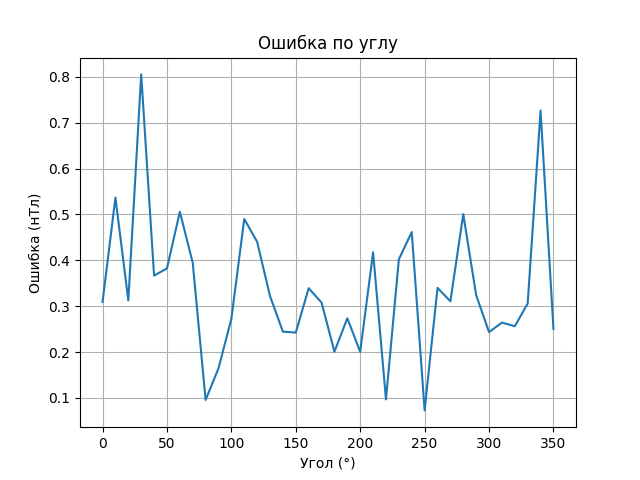
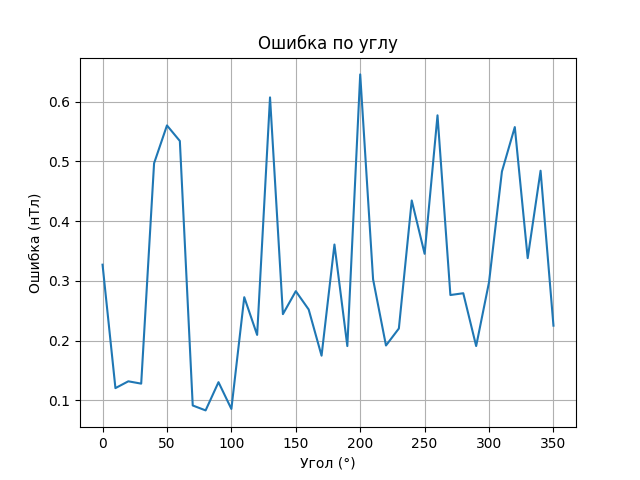
Добавил температуру

diff --git a/generate_data.py b/generate_data.py
@@ -1,30 +1,26 @@
 import numpy as np
 import pandas as pd
 from scipy.spatial.transform import Rotation as R
-# Ввод параметров с клавиатуры
 
-print("Введите bias (через пробел, 3 значения):")
-bias = np.array(list(map(float, input().split())))
+# Константные параметры
 
-print("Введите матрицу искажений A (в строках, 9 значений через пробел):")
-A = np.array(list(map(float, input().split()))).reshape((3, 3))
+bias = np.array([2.0, -1.5, 0.8])  # Смещение (bias)
 
-print("Введите чувствительность по каждой оси (3 значения):")
-sensitivity = np.array(list(map(float, input().split())))
+A = np.array([                   # Матрица искажений (soft-iron)
+    [1.05, 0.02, 0.01],
+    [0.01, 0.98, -0.03],
+    [-0.01, 0.02, 1.02]
+])
 
-print("Введите шум по каждой оси (σx σy σz):")
-noise_std = np.array(list(map(float, input().split())))
+sensitivity = np.array([0.95, 1.03, 1.00])  # Чувствительность по осям
 
-print("Введите уровень шума эталонного магнитометра:")
-ref_noise_std = float(input())
+noise_std = np.array([0.3, 0.3, 0.3])       # Шум по каждой оси
 
-print("Введите порог чувствительности эталонного магнитометра:")
-detection_threshold = float(input())
+ref_noise_std = 0.1                         # Шум эталонного магнитометра
 
-print("Нужно ли применять поворот осей? (yes/no):")
-rotate_axes = input().strip().lower() == "yes"
+detection_threshold = 1.0                   # Порог чувствительности эталонного
 
-
+rotate_axes = True                          # Применять поворот осей
 
 # Задание направления и величины геомагнитного поля
 
@@ -67,25 +63,31 @@ if rotate_axes:
 # 2. Искажения: bias + scale + soft-iron (матрица) + шум 
 
 noise = np.random.normal(0, ref_noise_std, M_ref.shape)  # шум
-
-# Добавляем шум, деградацию и порог
-# генерация шума распределённого нормально
-ref_noise = np.random.normal(0, ref_noise_std, M_ref.shape) 
-# добавление шума к эталонным данным
-M_ref_noisy = M_ref + ref_noise
-# Убираем слабые сигналы
+M_ref_noisy = M_ref + ref_noise_std
 M_ref_final = np.where(np.abs(M_ref_noisy) < detection_threshold, 0, M_ref_noisy)
 
-# Калибруемый магнитометр
-M_raw = M_ref_final * sensitivity  # применяем чувствительность
-M_raw = (M_raw @ A.T) + bias  # применяем искажения
+# === Температурная модель ===
+temperatures = 20 + 10 * np.sin(np.radians(angles_deg))  # [20°C .. 30°C]
+
+bias_temp_coef = np.array([0.01, -0.015, 0.005])
+sens_temp_coef = np.array([0.002, 0.001, -0.001])
+
+bias_temp = bias + (temperatures[:, None] - 25) * bias_temp_coef
+sensitivity_temp = sensitivity + (temperatures[:, None] - 25) * sens_temp_coef
+
+# === Калибруемый магнитометр ===
+M_raw = M_ref_final * sensitivity_temp
+M_raw = (M_raw @ A.T) + bias_temp
+
 noise = np.random.normal(0, noise_std, M_ref.shape)
-M_raw += noise  # добавляем шум
+M_raw += noise
+
 
 # 3. Сохраняем в CSV 
 
 df = pd.DataFrame({
     "angle_deg": angles_deg,
+    "temperature_C": temperatures,
     "raw_x": M_raw[:, 0],
     "raw_y": M_raw[:, 1],
     "raw_z": M_raw[:, 2],
